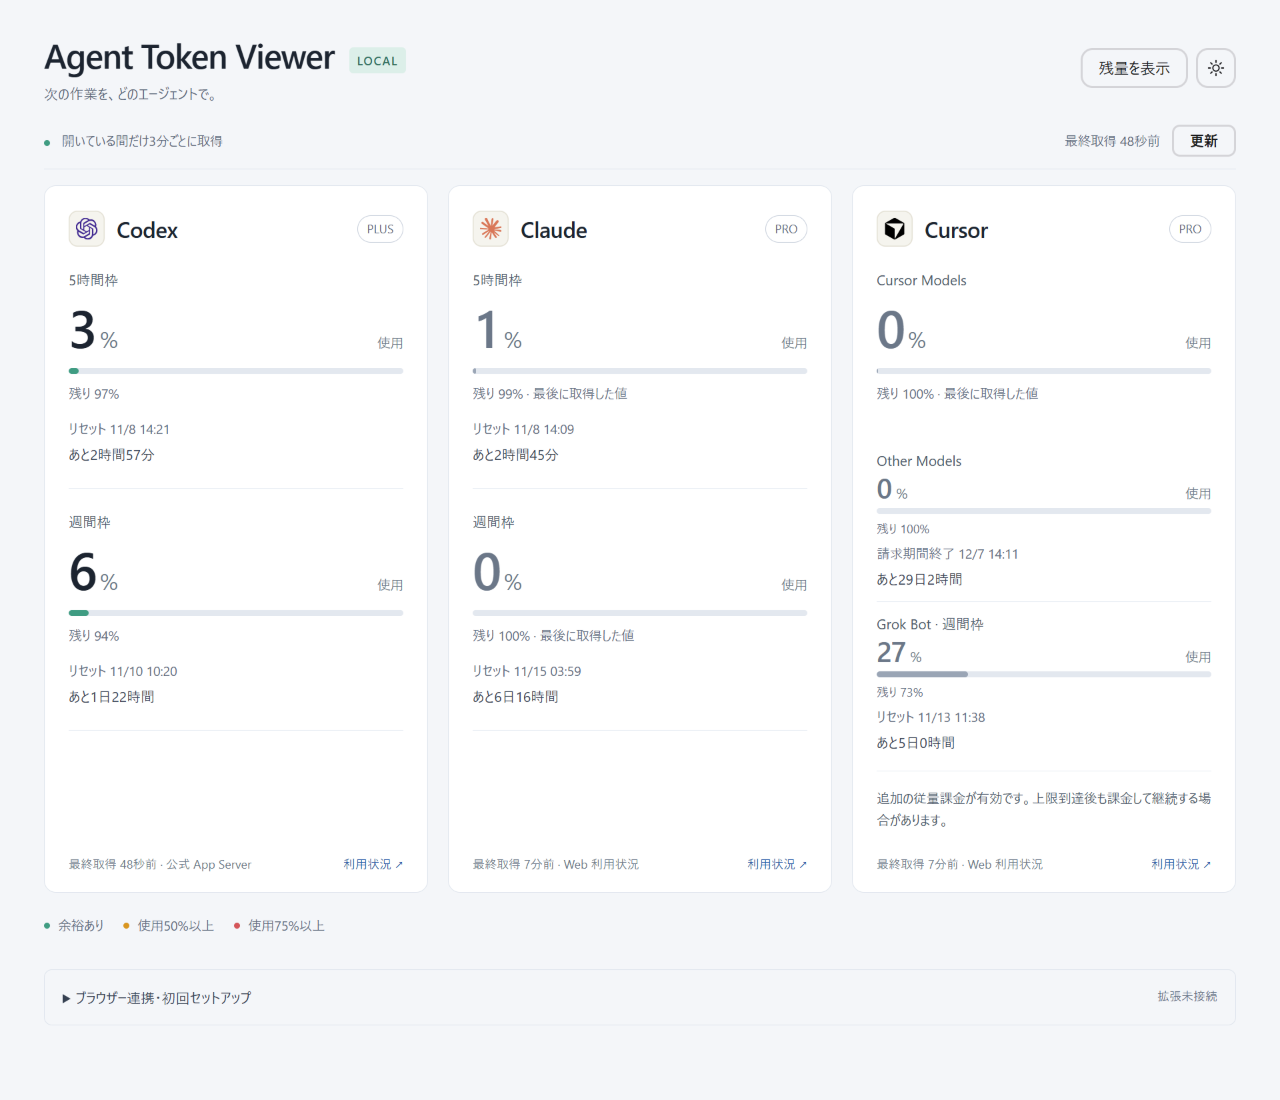
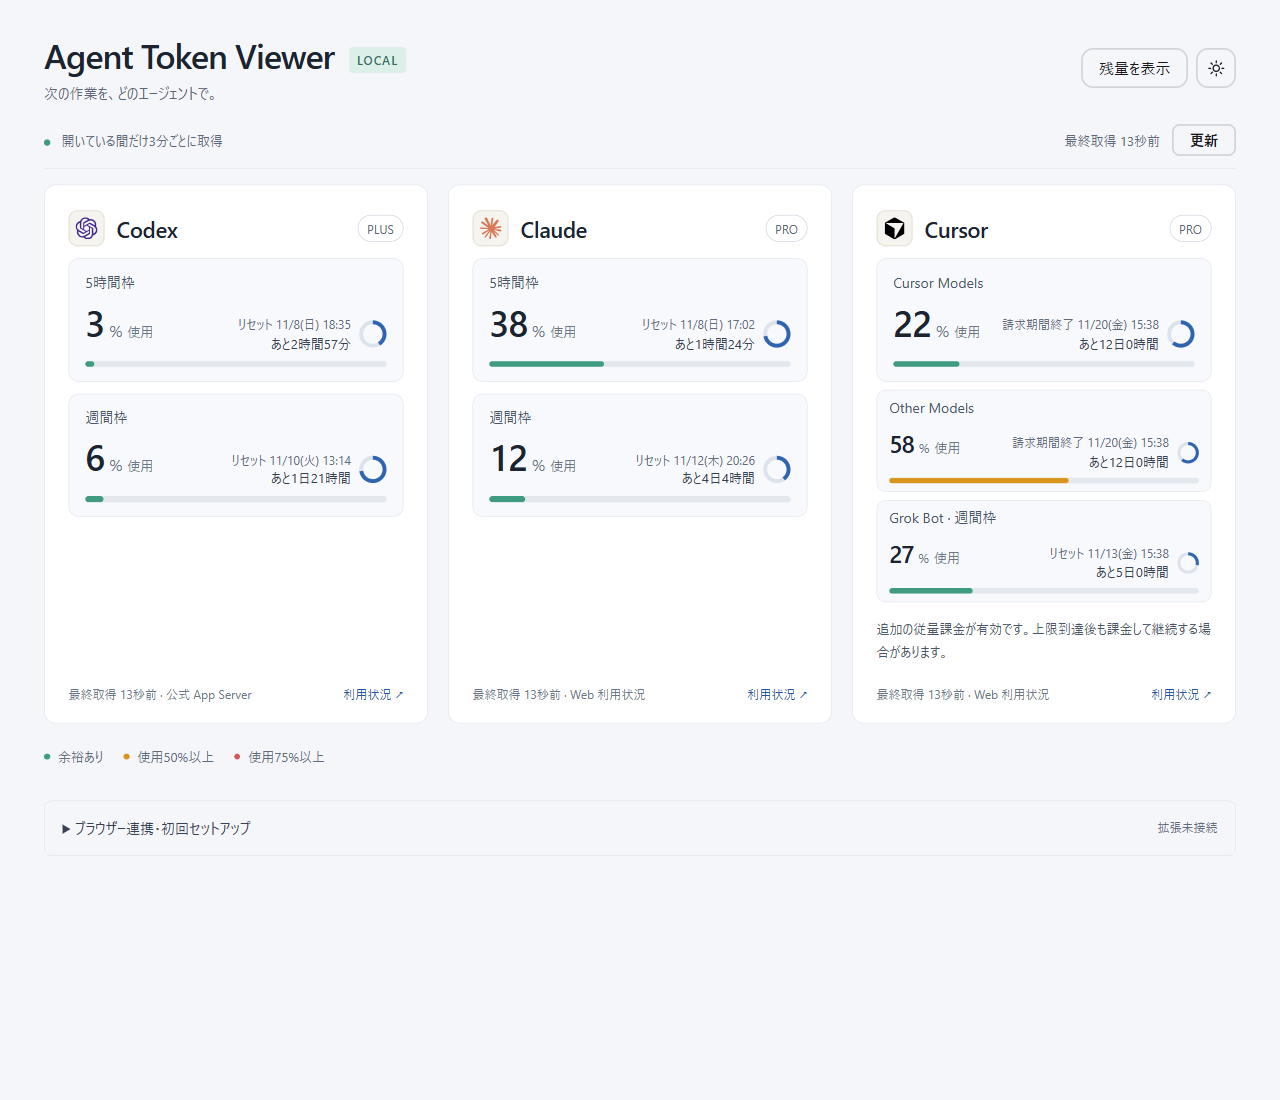
バージョンを1.0.0に更新し、READMEと画面サンプルを更新
- package.jsonと拡張のmanifest.jsonを1.0.0に更新し、CHANGELOGを追記
- 画面サンプルを現行UIに差し替え
- READMEのデータ元の表記を統一し、他サービスの追加用プロンプトを追加
- Claude公式出力による補助連携の説明を削除

diff --git a/CHANGELOG.md b/CHANGELOG.md
@@ -1,5 +1,13 @@
 # 変更履歴
 
+## 1.0.0
+
+- 利用枠をタイル表示にし、カード内で縦に積む形に変更。
+- 窓の経過時間を表すリングを、リセット時刻の右に追加。
+- Cursor Models にも請求期間終了を表示。
+- 「残り N%」の表示を廃止（状態メッセージは維持）。
+- リセット日時を「11/8(日) 19:29」の形式に変更。
+
 ## 0.9.0
 
 - アプリと拡張機能のバージョン管理を統一。
